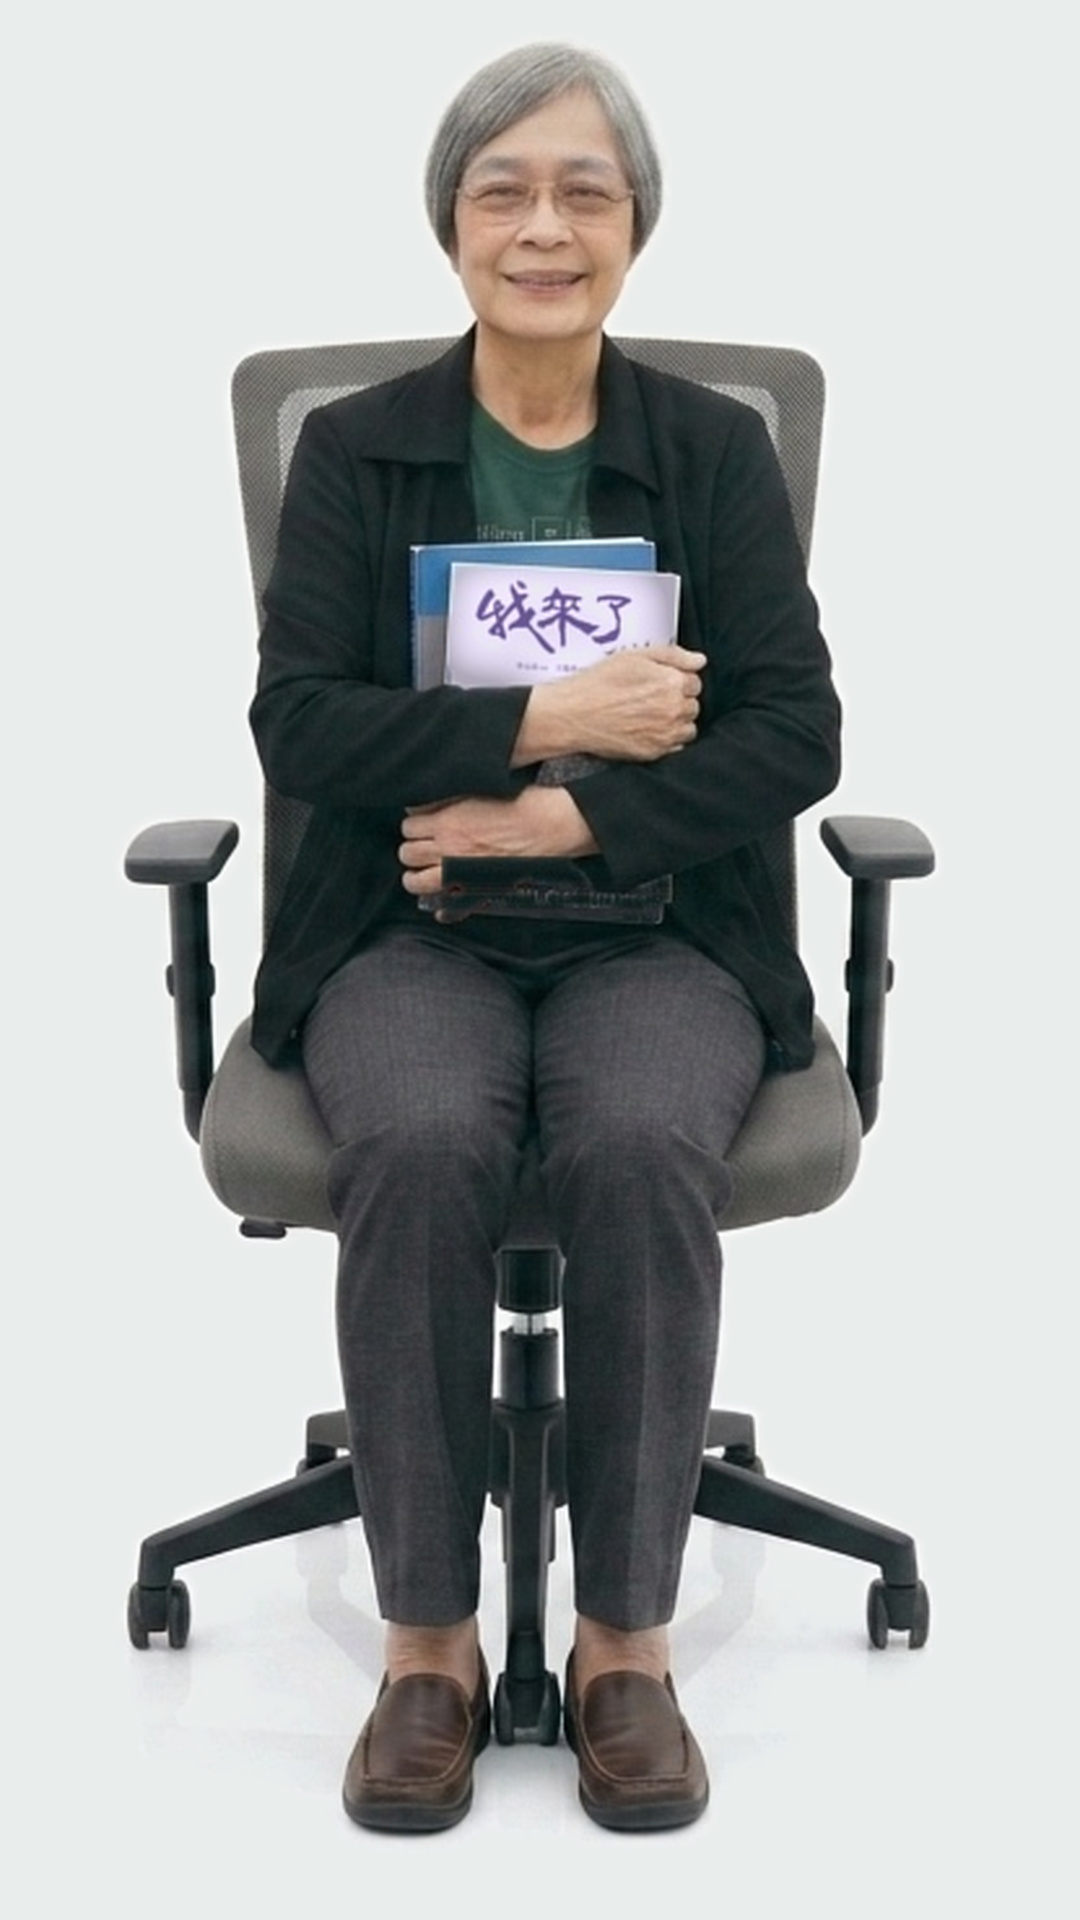
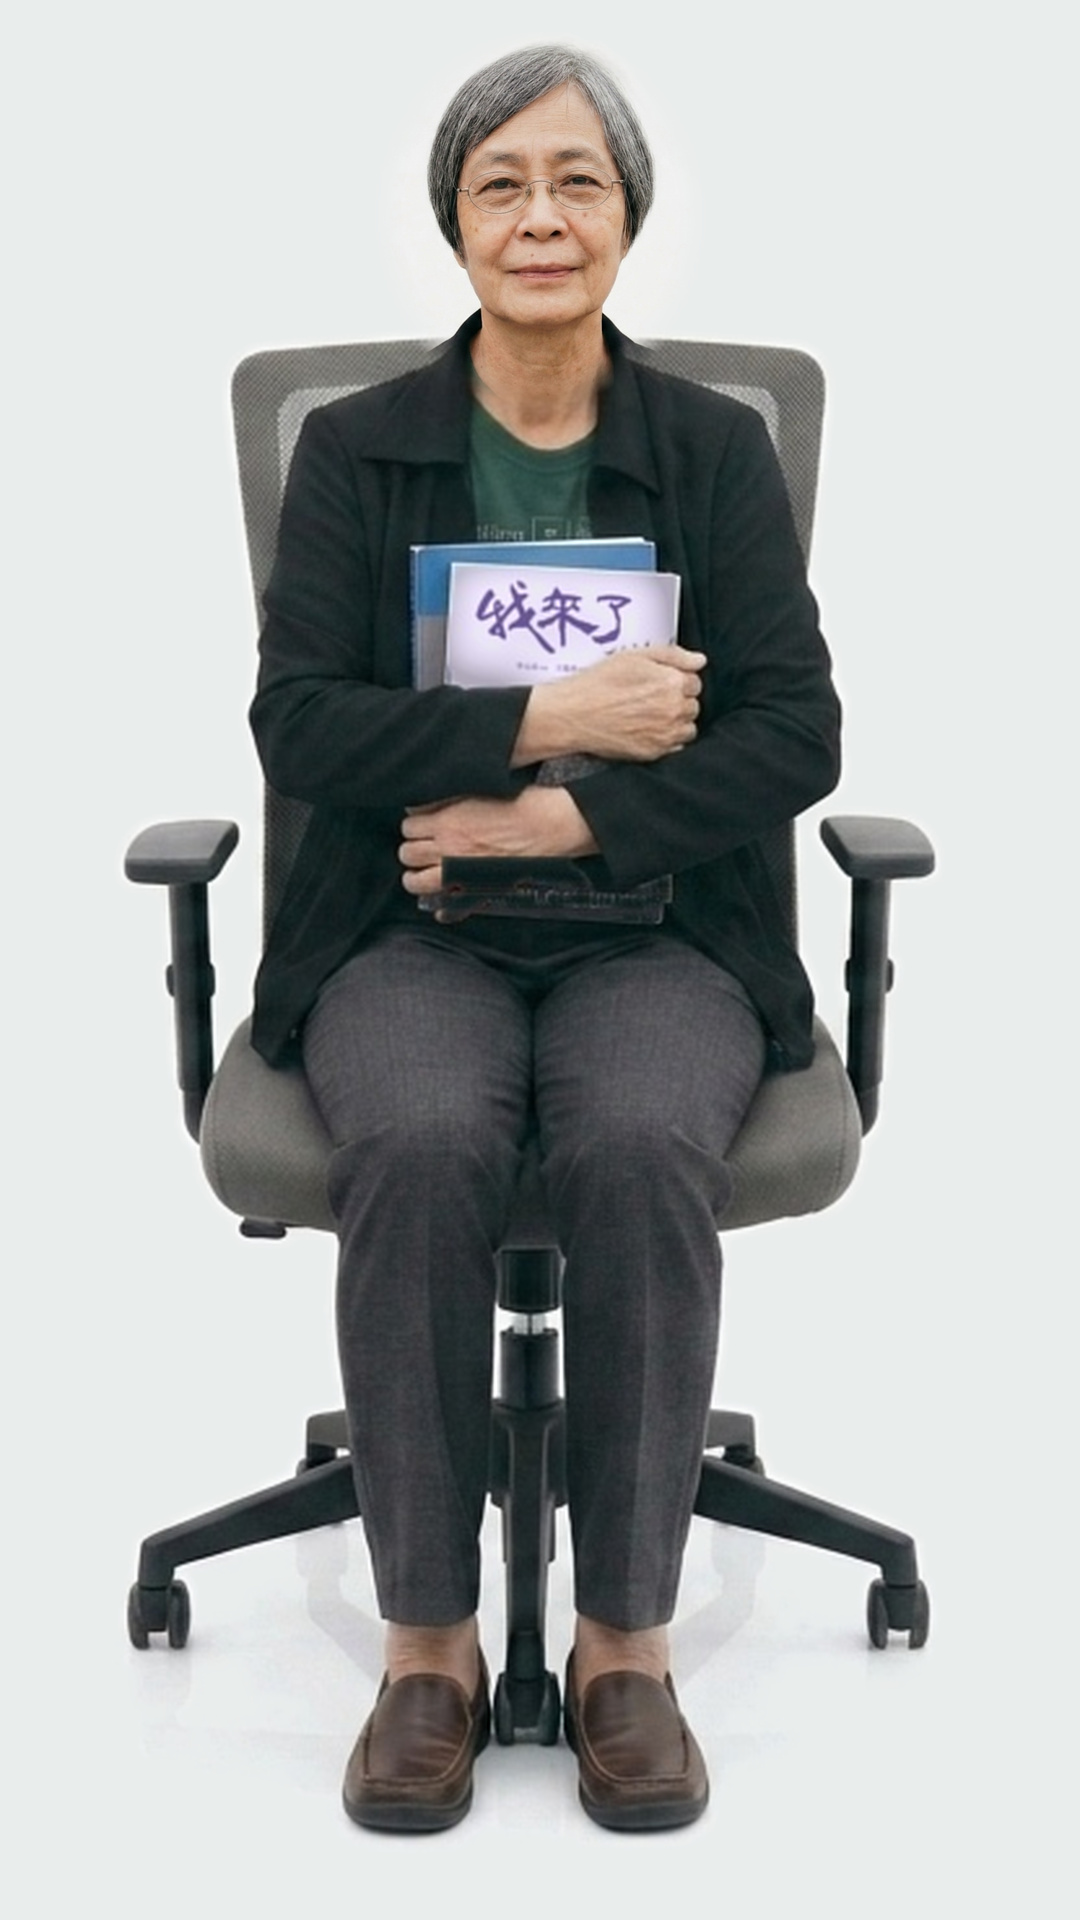
fix(live): 底圖先烘進照片的臉，修掉「一張臉有兩層」
上一版把橢圓遮罩做對了，但底圖還是那張純坐姿圖——也就是 AI 生成的臉。
影片淡出的那一圈於是變成「真實的臉」疊在「AI 畫的臉」上：同一個人，
但五官位置差幾個像素，下巴和鏡框都出現雙線。

修法是把照片層用同一個橢圓先烘進底圖，而且烘得比影片更外面一圈：
r ≤ 1.15 全實心、1.15→1.40 才淡出（影片只到 r=1）。這樣影片碰得到的
每一格底下都是同一張照片，混合前後內容一致，第二層就不存在了。
底圖自己那圈過渡落在頭髮外緣與背景上，是靜態的。

⚠ 以後改橢圓半徑或換底圖，兩件事要一起做：改 CSS，並用大 1.15~1.40 倍的
同心橢圓重新烘一次底圖。只改一邊，兩層臉會回來。

Changed region(s): [[0.3972, 0.0312, 0.6111, 0.2188]]

diff --git a/components/avatar/full-body-stage.tsx b/components/avatar/full-body-stage.tsx
@@ -87,9 +87,21 @@ export const STAGE_BOX = {
  *   肩線斜度不同（y=360 那列照片 273px、坐姿 195px，要到 y=410 才追上）
  *   兩件綠 T 恤的印花位置不一樣（照片 y=445~490、坐姿 y=500~560）
  *
- * 所以第三版**不接縫**：整個人（頭形、脖子、衣領、肩膀、手臂、書、椅子）
- * 全部來自同一張坐姿圖，串流只換掉臉。橢圓的邊落在頭髮與臉頰上——
- * 那裡兩層是同一個人、同樣的角度與打光，淡進淡出看不出來。
+ * 所以第三版**不接縫**：整個人（脖子、衣領、肩膀、手臂、書、椅子）
+ * 全部來自同一張坐姿圖，串流只換掉臉。
+ *
+ * 🔴 但橢圓遮罩本身還有一個坑，第三版踩過：**底圖裡那張臉必須先換成照片的臉。**
+ * 一開始底圖用的是純坐姿圖（AI 生成的臉），影片淡出的那一圈就變成
+ * 「真實的臉」疊在「AI 畫的臉」上——兩張臉是同一個人但五官位置差幾像素，
+ * 畫面上就是一張臉有兩層（下巴、鏡框都出現雙線）。
+ *
+ * 修法：底圖先把照片層用**同一個橢圓**烘進去，而且烘到 r ≤ 1.15 全實心、
+ * 1.15→1.40 才淡出——比影片的 r=1 更外面一圈。這樣影片碰得到的每一格，
+ * 底下都是同一張照片，混合前後是同一個內容，不會有第二層。
+ * 底圖自己那圈 1.15→1.40 的過渡落在頭髮外緣與背景上，是靜態的，看不出來。
+ *
+ * ⚠ 換底圖或改橢圓的話，這兩件事要一起改：CSS 的橢圓半徑，以及重新烘一次
+ * 底圖（用比 CSS 大 1.15~1.40 倍的同心橢圓）。只改一邊，兩層臉就回來了。
  *
  * 附帶好處：影片的不透明背景被橢圓擋在外面，不再抹掉椅背，所以底圖不必再
  * 挖掉椅子的上半截，椅背是完整的。
